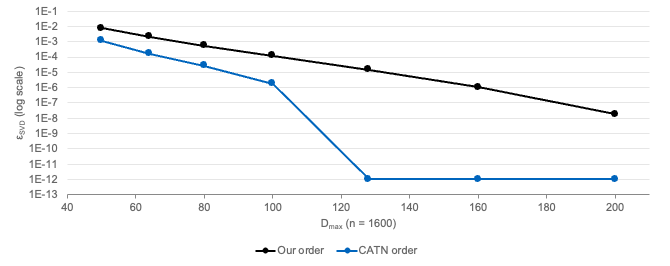
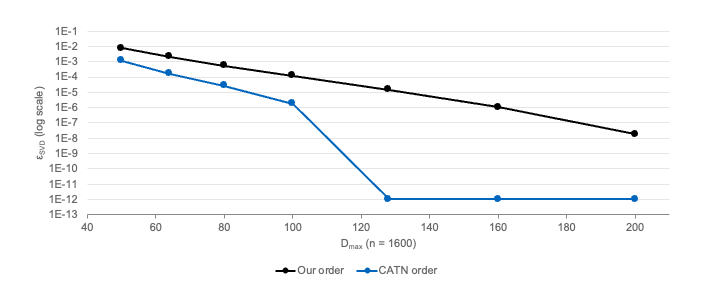
the report updated and circuit table for the visualized circuit added to data

Changed region(s): [[0.0, 0.0301, 0.9552, 0.9624], [0.1194, 0.0301, 0.9552, 0.0602]]

diff --git a/README.md b/README.md
@@ -6,13 +6,13 @@
 
 ## Tensor Network Contraction
 
-### Approximate tensor network contraction for random quantum circuits
+### Approximate algorithm for random quantum circuits via Contraction
 
 This repository [[3]](#ref3) contains an implementation of the approximate tensor network contraction
 algorithm for random quantum circuits, based on the paper *Contracting Arbitrary Tensor Networks: General
 Approximate Algorithm and Applications in Graphical Models and Quantum Circuit Simulations* [[1]](#ref1).
 
-### Circuit generation
+### Circuit Generation
 
 The circuits generated in this code follow Google's quantum supremacy experiments [[5]](#ref5).
 Each circuit has the structure: Hadamard (H) layer → CZ layers → Hadamard (H) layer.
@@ -22,7 +22,7 @@ The CZ gates are applied in the eight layout patterns shown in Figure 1.
   <img src="figure/img_1.png" alt="The 8 CZ-patterns layout" width="700">
 </p>
 
-*Figure 1: The eight CZ-gate layout patterns used for circuit generation. Adapted from Boixo et al. [[5]](#ref5).*
+*Figure 1: The eight CZ-gate layout patterns used for circuit generation [[1]](#ref1).*
 
 Figure 2 shows the tensor network produced by our circuit generation procedure. Its key property is
 high entanglement, which makes the circuit hard to simulate on classical computers. Single-qubit gates
@@ -32,13 +32,13 @@ are drawn from the set {T, X<sup>1/2</sup>, Y<sup>1/2</sup>}.
   <img src="figure/network_L10_d8_360_viewer-colors.gif" alt="Generated tensor network visualization" width="700">
 </p>
 
-*Figure 2: Tensor network of a generated circuit with L = 10 (10 × 10 qubits) and depth d = 8 (own work).*
+*Figure 2: Tensor network of a generated circuit with L = 10 (10 × 10 qubits) and depth d = 8.*
 
-### Tensor contraction
+### Tensor Contraction
 
-A quantum circuit can be simulated by mapping it to a tensor network and contracting it [[8]](#ref8).
-Contracting two tensors means multiplying them and summing over their shared index [[6]](#ref6).
-Figure 3 shows this operation in tensor diagram notation [[7]](#ref7).
+A quantum circuit can be simulated by mapping it to a tensor network and contracting it.
+Contracting two tensors means multiplying them and summing over their shared index.
+Figure 3 shows this operation in tensor diagram notation.
 
 <p align="center">
   <img src="figure/Contraction.png" alt="Contraction mathematical representation" width="700">
@@ -46,7 +46,7 @@ Figure 3 shows this operation in tensor diagram notation [[7]](#ref7).
 
 *Figure 3: Contraction of two tensors over a shared index, in tensor diagram notation [[7]](#ref7).*
 
-As the contraction proceeds, the bond dimensions grow until further contraction becomes very expensive.
+As the contraction proceeds, the bond dimensions grow until contractions become very expensive to get the amplitudes of the circuit.
 Figure 4 shows that even for a small circuit (n = 36 qubits), the bond dimensions grow exponentially
 because of the high entanglement. Without the MPS representation [[4]](#ref4), the bond dimension can
 reach 2<sup>22</sup>. With the MPS representation, it is reduced to 2<sup>11</sup>, simply by changing
@@ -56,7 +56,7 @@ how the data is stored and processed. As a result, the amplitudes of the circuit
   <img src="figure/contraction.gif" alt="Bond dimension growth during contraction" width="700">
 </p>
 
-*Figure 4: Growth of the bond dimensions during the contraction of an n = 36 qubit circuit (own work).*
+*Figure 4: Growth of the bond dimensions during the contraction of an n = 36 qubit circuit.*
 
 Figure 5 illustrates the swap, contract and merge operations on a small five-tensor network after it
 has been converted to the MPS representation.
@@ -69,20 +69,20 @@ has been converted to the MPS representation.
 
 ### Sources of truncation error
 
-Only two operations introduce an error during the contraction [[1]](#ref1): truncating the virtual bond
+Only two operations introduce an error during the contraction: truncating the virtual bond
 to $\chi_{\max}$ during **swaps**, and truncating the physical bond to $D_{\max}$ during **merges**.
 
 #### Swap → virtual bond $\chi$
 
 * **What:** Moving an index one place along the MPS contracts two neighbouring tensors and splits them again by SVD.
-* **Grows:** Each swap can enlarge the virtual bond $\chi$ between the two tensors.
-* **Cut:** If $\chi > \chi_{\max}$, only the $\chi_{\max}$ largest singular values are kept. The discarded part adds to $\varepsilon_{\mathrm{swap}}$.
+* **Grows:** Each swap can enlarge the virtual bond $\chi$ between the two tensors (there are also other possibilities: the virtual bond can be smaller, or within the same level).
+* **Cut:** If $\chi > \chi_{\max}$, only the $\chi_{\max}$ largest singular values are kept (according to the Eckart-Young Theorem). The discarded part adds to $\varepsilon_{\mathrm{swap}}$.
 
 <p align="center">
   <img src="figure/swap.png" alt="Swap of two neighbouring MPS tensors" width="700">
 </p>
 
-*Figure 6: Swapping two neighbouring MPS tensors: contraction, SVD and truncation of the virtual bond. Taken from F. Pan et al. [[1]](#ref1), Fig. 3(a).*
+*Figure 6: Swapping two neighboring MPS tensors: contraction, SVD and truncation of the virtual bond. Taken from F. Pan et al. [[1]](#ref1), Fig. 3(a).*
 
 #### Merge → physical bond $D$
 
@@ -102,6 +102,8 @@ $$
 \varepsilon_{\mathrm{SVD}} = \varepsilon_{\mathrm{swap}} + \varepsilon_{\mathrm{merge}}
 $$
 
+This accumulation is done for the whole tensor network and it is given as the second output of the MPS Calculus kernel.
+
 ### Comparison with CATN
 
 #### Experimental setup
@@ -115,9 +117,9 @@ $$
 | χ<sub>max</sub> (virtual bond)  | 500                                                                      |
 | Contraction order               | Greedy                                                                   |
 
-*Table 1: Experimental setup used for the comparison in Figure 8 and Table 2.*
+*Table 1: Experimental setup used.*
 
-#### Results
+#### Results and Discussion
 
 The code is written in Python and compared against the reference implementation CATN [[2]](#ref2).
 As Figure 8 shows, we obtain the exact solution for small qubit counts such as n = 100 and n = 400.
@@ -133,7 +135,7 @@ the edge with the *smallest index*. Both implementations use the same greedy cri
   <img src="figure/img_4.png" alt="Error comparison against CATN" width="700">
 </p>
 
-*Figure 8: True error of our implementation vs. CATN [[2]](#ref2) for different system sizes, using both circuit generators (own work).*
+*Figure 8: True error of our implementation vs. CATN for different system sizes, using both circuit generators.*
 
 #### Reported ε vs. true error
 
@@ -157,7 +159,7 @@ The reported truncation error $\varepsilon_{\mathrm{SVD}}$ is an **indicator, no
 
 ### Greedy contraction criterion
 
-The greedy criterion is a simple heuristic that picks the cheapest edge to contract next [[1]](#ref1):
+The greedy criterion is a simple heuristic that picks the cheapest edge to contract next:
 
 $$
 \mathrm{cost}(\mu, \nu) = \log \mathrm{Size}(\mu) + \log \mathrm{Size}(\nu) - 2 \log D_{\mu\nu}
@@ -174,7 +176,7 @@ Figure 9 shows a similar analysis that we used to find where the contraction ord
   <img src="figure/Dmaxsweep.png" alt="Dmax sweep for different contraction orders" width="700">
 </p>
 
-*Figure 9: Error vs. physical bond dimension cap $D_{\max}$ for CATN's contraction order and our contraction order, both run with our kernel (own work).*
+*Figure 9: Error vs. physical bond dimension cap $D_{\max}$ for CATN's contraction order and our contraction order, both run with our kernel.*
 
 With CATN's order, the solution becomes exact once $D_{\max} \geq 128$. With our order, it is still not
 exact at $D_{\max} = 200$. Both runs use our kernel, so this analysis isolated the edge-selection

diff --git a/Data/geometry/circuit_table_L10_d8.md b/Data/geometry/circuit_table_L10_d8.md
@@ -1,0 +1,38 @@
+### Circuit statistics (L = 10, n = 100, d = 8, seed = 0)
+
+| Layer | Pattern | Dir. | CZ | T | X<sup>1/2</sup> | Y<sup>1/2</sup> | CZ across │ cut (cum.) | CZ across ─ cut (cum.) | Light cone (centre) | Light cone (avg.) |
+|:---:|:---:|:---:|---:|---:|---:|---:|---:|---:|---:|---:|
+| 1 | 1 | ↔ | 25 | 50 | 0 | 0 | 5 | 0 | 2/100 | 2 % |
+| 2 | 2 | ↔ | 25 | 50 | 0 | 0 | 10 | 0 | 2/100 | 2 % |
+| 3 | 3 | ↕ | 20 | 0 | 10 | 20 | 10 | 0 | 3/100 | 3 % |
+| 4 | 4 | ↕ | 20 | 0 | 18 | 22 | 10 | 0 | 4/100 | 4 % |
+| 5 | 5 | ↔ | 20 | 6 | 12 | 6 | 10 | 0 | 6/100 | 5 % |
+| 6 | 6 | ↔ | 20 | 16 | 9 | 15 | 10 | 0 | 8/100 | 6 % |
+| 7 | 7 | ↕ | 25 | 9 | 4 | 7 | 10 | 5 | 12/100 | 10 % |
+| 8 | 8 | ↕ | 25 | 15 | 21 | 14 | 10 | 10 | 16/100 | 13 % |
+| **Σ** |  |  | **180** | **146** | **74** | **84** | **10** | **10** |  |  |
+
+*Table: CZ layers and gate counts per layer.*
+
+| Quantity | Count |
+|:---|---:|
+| H | 200 |
+| T | 146 |
+| X^1/2 | 74 |
+| Y^1/2 | 84 |
+| CZ | 180 |
+| **Total gates** | **684** |
+| Tensors (kets + gates + bras) | 884 |
+| Bonds (edges, dim 2) | 964 |
+
+*Table: Total gate and tensor counts.*
+
+| Indicator | Value | Meaning |
+|:---|---:|:---|
+| CZ across vertical cut │ | 10 | S ≤ min(10, 50) = 10 ebits |
+| CZ across horizontal cut ─ | 10 | S ≤ min(10, 50) = 10 ebits |
+| Light cone of centre qubit | 16/100 | qubits influenced after d layers |
+| Avg. light cone | 13 % | average over all qubits |
+| Treewidth upper bound (min-degree) | 9 | exact contraction cost ~ 2<sup>O(9)</sup> [[8]](#ref8) |
+
+*Table: Indicators for high entanglement at d = 8.*
